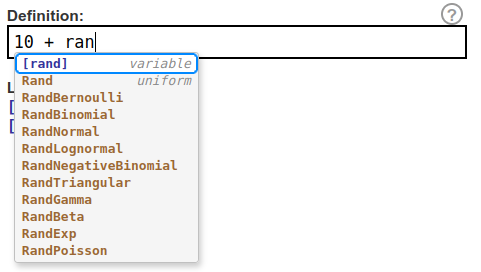
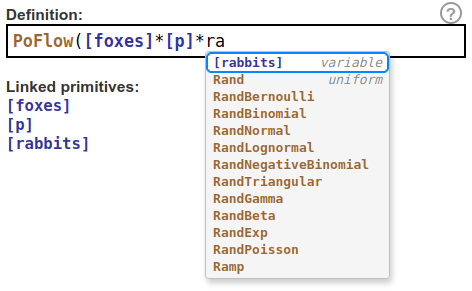
Minor autocomplete improvement

Changed region(s): [[0.0, 0.0, 1.0, 1.0]]

diff --git a/OpenSystemDynamics/src/editor.js b/OpenSystemDynamics/src/editor.js
@@ -9680,6 +9680,13 @@ const functions = [
 	{name: "RandBeta", arguments: [{name: "alpha", name: "beta"}]},
 	{name: "RandExp", arguments: [{name: "beta"}]}, 
 	{name: "RandPoisson", arguments: [{name: "lambda"}]},
+	{name: "Pulse", arguments: [{name: "time"}, {name: "volume", default: "0"}, {name: "repeat", default: "1"}]},
+	{name: "Step", arguments: [{name: "start"}, {name: "height", default: "1"}]},
+	{name: "Ramp", arguments: [{name: "start"}, {name: "finish"}, {name: "height", default: "1"}]},
+	{name: "Delay", arguments: [{name: "primitive"}, {name: "delay"}, {name: "initial value"}]},
+	{name: "Delay1", note: "smoothed, first-order exponential", arguments: [{name: "primitive"}, {name: "delay"}, {name: "initial value"}]},
+	{name: "Delay3", note: "smoothed, third-order exponential", arguments: [{name: "primitive"}, {name: "delay"}, {name: "initial value"}]},
+	{name: "Smooth", note: "smoothing of past values", arguments: [{name: "primitive"}, {name: "length"}, {name: "initial value"}]},
 	{name: "Round", arguments: [{name: "value"}]},
 	{name: "Ceiling", arguments: [{name: "value"}]},
 	{name: "Floor", arguments: [{name: "value"}]},
@@ -9717,10 +9724,11 @@ const functions = [
 class Autocomplete {
 	static getCompletions(cm, options, prim) {
 		let cursor = cm.getCursor()
-		let line = cm.getLine(cursor.line)		
+		let line = cm.getLine(cursor.line)
+		const prevStr = line.substring(0, cursor.ch)
 		return [
 			...this.getPrimitiveNames(line, cursor, prim),
-			...this.getFunctions(line, cursor),
+			...((/\[\w*$/gi).test(prevStr) ? [] : this.getFunctions(line, cursor)),
 		]
 	}
 	/* row:string, cursor: Cursor */
@@ -9847,10 +9855,15 @@ class DefinitionEditor extends jqDialog {
 				},
 				hintOptions: {hint: (cm, options) => {
 					let cursor = cm.getCursor()
+					let line = cm.getLine(cursor.line)
+					let start = cursor.ch 
+					let end = cursor.ch
+					while (start && /\w/.test(line.charAt(start - 1))) --start
+					while (end < line.length && /\w/.test(line.charAt(end))) ++end
 					return {
 						list: Autocomplete.getCompletions(cm, options, this.primitive),
-						from: { line: cursor.line, ch: 0}, 
-						to: {line: cursor.line, ch: 0},
+						from: { line: cursor.line, ch: start}, 
+						to: {line: cursor.line, ch: end},
 					}
 				}}
 			}
@@ -10081,7 +10094,7 @@ class DefinitionEditor extends jqDialog {
 		`<div style="max-width: 400px;">
 			<p>${typeSpecificTexts[getTypeNew(this.primitive)]}</p>
 			<b>Key bindings:</b>
-			<ul style="margin: 0.5em 0;">
+			<ul style="margin: 0.5em 0; padding-left: 2em;">
 				<li>${keyHtml("Esc")} &rarr; Cancel changes</li>
 				<li>${keyHtml("Enter")} &rarr; Apply changes</li>
 				<li>
